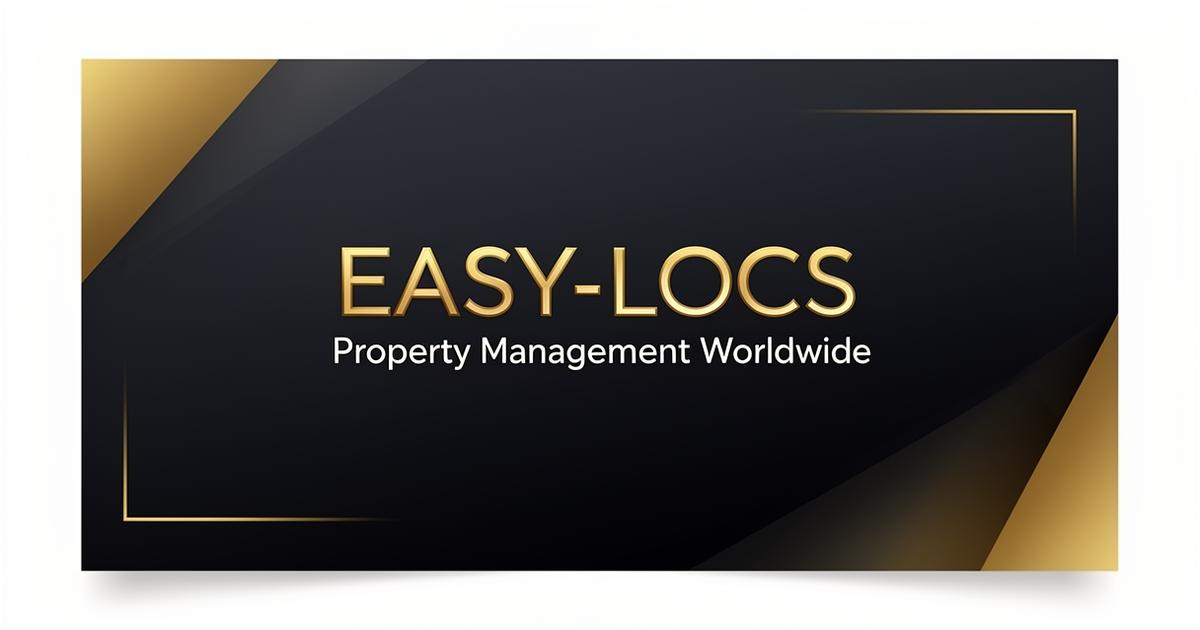
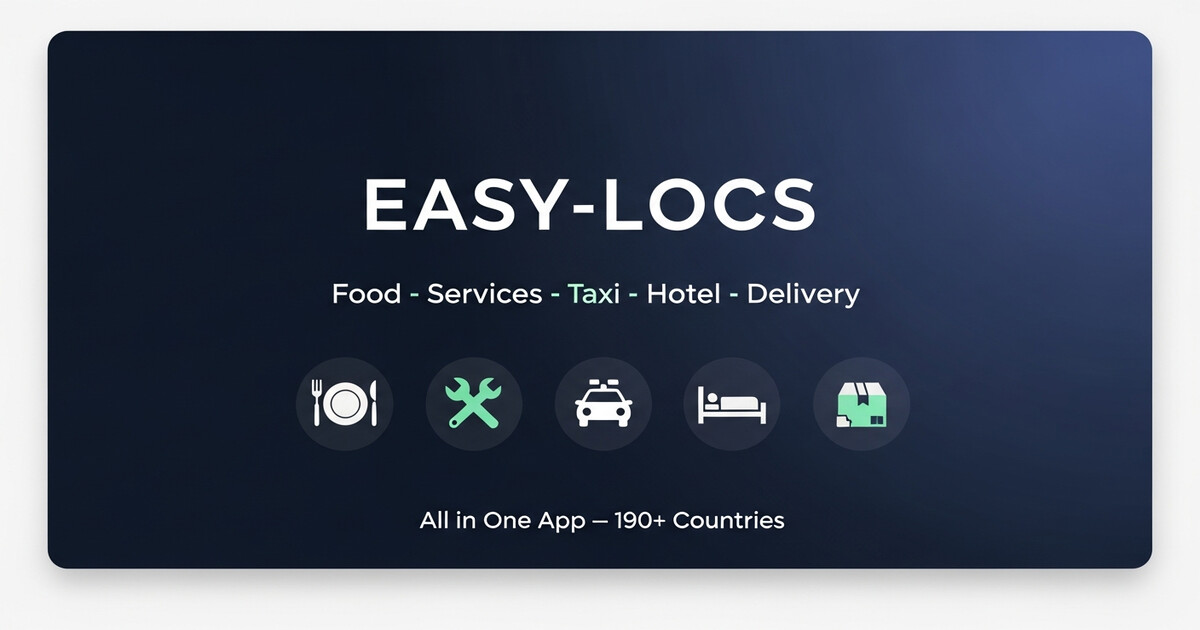
Fix branded URLs, OG image, and SEO consistency for Easy-Locs (#135)
1. APP_BASE_URL: Hardcoded to https://www.easy-locs.com with no
   window.location.origin fallback (app-domain.ts).

2. Centralized all share/link-generating code to use APP_BASE_URL
   via static imports — 25+ files updated including all share engines,
   QR generators, payment link builders, and merchant services.

3. Replaced public/og-default.jpg with new 1200x630 super-app branded
   image (food, taxi, hotel, services theme).

4. Normalized default OG/SEO titles across all surfaces to exactly
   "Easy-Locs — Food, Services, Taxi, Hotel in One App":
   index.html, SEOHead.tsx, seo-meta.pipeline.ts.

5. Fixed social-preview edge function: og:url and canonical now point
   to branded app URLs (e.g. easy-locs.com/listing/slug) instead of
   Supabase function URLs.

6. Cleaned up BookingLinkShare: removed unused socialLink variable
   and stale comments about edge-function routing.

7. Preserved window.location.origin only where needed for OAuth
   redirects and Stripe payment callbacks.

Replit-Task-Id: a7a1967b-62bd-4e99-abe4-a5ea4ca70c99

diff --git a/easy-locs-ea1eb0ed/src/components/concierge/BookingLinkShare.tsx b/easy-locs-ea1eb0ed/src/components/concierge/BookingLinkShare.tsx
@@ -3,7 +3,7 @@ import { Button } from "@/components/ui/button";
 import { Input } from "@/components/ui/input";
 import { Copy, MessageCircle, Mail, Share2, Check, Send } from "lucide-react";
 import { toast } from "sonner";
-import { getCleanShareUrl, getSocialShareUrl } from "@/lib/social-share";
+import { getCleanShareUrl } from "@/lib/social-share";
 
 interface Props {
   serviceSlug: string;
@@ -14,18 +14,13 @@ interface Props {
 }
 
 /**
- * Share booking links with product photo in social previews.
- * - Copy button: stable clean SPA link (easy-locs.com/book/slug)
- * - Social buttons: route through social-preview edge function
- *   so crawlers (WhatsApp, Telegram, iMessage) see og:image with product photo.
+ * Share booking links via WhatsApp, Telegram, Email, SMS.
+ * All channels use the branded clean URL (easy-locs.com/book/slug).
  */
-const BookingLinkShare = ({ serviceSlug, serviceTitle, photoUrl, shareVersion }: Props) => {
+const BookingLinkShare = ({ serviceSlug, serviceTitle, photoUrl }: Props) => {
   const [copied, setCopied] = useState(false);
 
-  // Clean URL for display and copy
   const cleanLink = getCleanShareUrl("service", serviceSlug);
-  // Social URL with OG tags for crawlers
-  const socialLink = getSocialShareUrl("service", serviceSlug, shareVersion || undefined);
 
   const copy = async () => {
     await navigator.clipboard.writeText(cleanLink);
@@ -37,10 +32,9 @@ const BookingLinkShare = ({ serviceSlug, serviceTitle, photoUrl, shareVersion }:
   const openShare = (platform: "whatsapp" | "telegram" | "email" | "sms") => {
     const encodedTitle = encodeURIComponent(serviceTitle);
 
-    // WhatsApp & Telegram use social URL for OG preview; Email & SMS use clean URL
     const targets: Record<string, string> = {
-      whatsapp: `https://api.whatsapp.com/send?text=${encodedTitle}%20${encodeURIComponent(socialLink)}`,
-      telegram: `https://t.me/share/url?url=${encodeURIComponent(socialLink)}&text=${encodedTitle}`,
+      whatsapp: `https://api.whatsapp.com/send?text=${encodedTitle}%20${encodeURIComponent(cleanLink)}`,
+      telegram: `https://t.me/share/url?url=${encodeURIComponent(cleanLink)}&text=${encodedTitle}`,
       email: `mailto:?subject=${encodedTitle}&body=${encodedTitle}%20${encodeURIComponent(cleanLink)}`,
       sms: `sms:?body=${encodedTitle}%20${encodeURIComponent(cleanLink)}`,
     };

diff --git a/easy-locs-ea1eb0ed/src/components/communication-hub/HudChatPanel.tsx b/easy-locs-ea1eb0ed/src/components/communication-hub/HudChatPanel.tsx
@@ -9,6 +9,7 @@ import { Button } from "@/components/ui/button";
 import { Sheet, SheetContent } from "@/components/ui/sheet";
 import { useI18n } from "@/lib/i18n";
 import { toast } from "sonner";
+import { APP_BASE_URL } from "@/lib/app-domain";
 
 // ── Auth / Identity ──
 import { useAuth, useResolveAuthUserId } from "@/families/auth";
@@ -498,12 +499,12 @@ const HudChatPanelInner = memo(function HudChatPanelInner({ thread, onBack, onTo
         onDisappearTimerChange={(timer) => security.setDisappearTTL(timer)}
         conversationId={currentConversationId || null}
         onChatCleared={() => { overlayBridge.setShowContactProfile(false); }}
-        onShareQR={() => {
+        onShareQR={async () => {
           overlayBridge.setShowContactProfile(false);
           const qrCanvas = document.createElement("canvas");
           const contactName = thread?.name || "Contact";
           const contactId = thread?.peerUserId || thread?.tenantId || thread?.entityId || "";
-          const shareUrl = `${window.location.origin}/#/add-contact?userId=${contactId}&name=${encodeURIComponent(contactName)}`;
+          const shareUrl = `${APP_BASE_URL}/#/add-contact?userId=${contactId}&name=${encodeURIComponent(contactName)}`;
           import("qrcode").then(QRCodeLib => {
             QRCodeLib.default.toDataURL(shareUrl, { width: 400, margin: 2, errorCorrectionLevel: "H" }).then(dataUrl => {
               navigator.clipboard.writeText(shareUrl).then(() => {

diff --git a/easy-locs-ea1eb0ed/src/pages/travel/FlightConfirmationPage.tsx b/easy-locs-ea1eb0ed/src/pages/travel/FlightConfirmationPage.tsx
@@ -8,6 +8,7 @@ import { useNavigate } from "react-router-dom";
 import { useCallback } from "react";
 import { toast } from "sonner";
 import { useUiEngine } from "@/hooks/useUiEngine";
+import { APP_BASE_URL } from "@/lib/app-domain";
 
 const NAVY = "hsl(226 24% 14%)";
 const GOLD = "hsl(var(--accent))";
@@ -191,11 +192,16 @@ export default function FlightConfirmationPage() {
             variant="outline"
             className="h-11 rounded-xl text-xs font-bold"
             onClick={() => {
+              const shareData = {
+                title: `Flight ${booking.pnr}`,
+                text: `${firstSeg.origin} → ${lastSeg.destination} on ${formatDate(firstSeg.departureTime)}`,
+                url: `${APP_BASE_URL}/travel/bookings`,
+              };
               if (navigator.share) {
-                navigator.share({
-                  title: `Flight ${booking.pnr}`,
-                  text: `${firstSeg.origin} → ${lastSeg.destination} on ${formatDate(firstSeg.departureTime)}`,
-                }).catch(() => {});
+                navigator.share(shareData).catch(() => {});
+              } else {
+                navigator.clipboard.writeText(`${shareData.title} — ${shareData.text} ${shareData.url}`).catch(() => {});
+                toast.success("Flight details copied!");
               }
             }}
           >

diff --git a/easy-locs-ea1eb0ed/src/components/storefront/AffiliateProgram.tsx b/easy-locs-ea1eb0ed/src/components/storefront/AffiliateProgram.tsx
@@ -13,6 +13,7 @@ import { Badge } from "@/components/ui/badge";
 import { Input } from "@/components/ui/input";
 import { Users, Link2, Copy, Check, DollarSign, MousePointer, ShoppingBag, Loader2, TrendingUp } from "lucide-react";
 import { toast } from "sonner";
+import { APP_BASE_URL } from "@/lib/app-domain";
 
 interface Props {
   shopId: string;
@@ -70,7 +71,7 @@ export default function AffiliateProgram({ shopId, shopSlug, mode }: Props) {
   };
 
   const copyLink = (code: string) => {
-    const url = `${window.location.origin}/s/${shopSlug || "shop"}?ref=${code}`;
+    const url = `${APP_BASE_URL}/s/${shopSlug || "shop"}?ref=${code}`;
     navigator.clipboard.writeText(url);
     setCopied(true);
     setTimeout(() => setCopied(false), 2000);
@@ -155,7 +156,7 @@ export default function AffiliateProgram({ shopId, shopSlug, mode }: Props) {
               <div className="flex gap-2">
                 <Input
                   readOnly
-                  value={`${window.location.origin}/s/${shopSlug}?ref=${myAffiliate.referral_code}`}
+                  value={`${APP_BASE_URL}/s/${shopSlug}?ref=${myAffiliate.referral_code}`}
                   className="h-8 text-[10px] font-mono bg-background"
                 />
                 <Button size="icon" className="h-8 w-8 shrink-0" onClick={() => copyLink(myAffiliate.referral_code)}>

diff --git a/easy-locs-ea1eb0ed/src/lib/merchant/outreach-service.ts b/easy-locs-ea1eb0ed/src/lib/merchant/outreach-service.ts
@@ -3,6 +3,7 @@
  * Creates campaigns, generates activation links, and tracks funnel metrics.
  */
 import { db } from "@/services/db";
+import { APP_BASE_URL } from "@/lib/app-domain";
 
 export interface OutreachRecord {
   id: string;
@@ -47,9 +48,7 @@ export async function createOutreachCampaign(params: {
 
   if (error) throw error;
 
-  // Generate activation link
-  const baseUrl = window.location.origin;
-  const link = `${baseUrl}/#/merchant/claim?token=${data.activation_token}`;
+  const link = `${APP_BASE_URL}/#/merchant/claim?token=${data.activation_token}`;
 
   await db
     .from("merchant_outreach_campaigns")
@@ -64,7 +63,6 @@ export async function bulkCreateOutreach(params: {
   merchantProfileIds: string[];
   channel: "whatsapp" | "sms" | "email";
 }) {
-  const baseUrl = window.location.origin;
   const rows = params.merchantProfileIds.map((id) => ({
     merchant_profile_id: id,
     channel: params.channel,
@@ -80,7 +78,7 @@ export async function bulkCreateOutreach(params: {
 
   // Update activation links
   for (const row of data ?? []) {
-    const link = `${baseUrl}/#/merchant/claim?token=${row.activation_token}`;
+    const link = `${APP_BASE_URL}/#/merchant/claim?token=${row.activation_token}`;
     await db
       .from("merchant_outreach_campaigns")
       .update({ activation_link: link })

diff --git a/easy-locs-ea1eb0ed/src/components/communication-hub/chat/ChatHeader.tsx b/easy-locs-ea1eb0ed/src/components/communication-hub/chat/ChatHeader.tsx
@@ -8,6 +8,7 @@ import { resolveCanonicalDisplayIdentity } from "@/lib/orbit/canonical-helpers";
 import { IdentityAvatar } from "@/components/orbit/IdentityAvatar";
 import { usePresenceStore } from "@/families/presence";
 import { toast } from "sonner";
+import { APP_BASE_URL } from "@/lib/app-domain";
 import type { ConversationThread } from "../types";
 import { EphemeralPolicy, type DisappearTimer } from "@/families/ephemeral/ephemeral-policy";
 import { Timer, TimerOff } from "lucide-react";
@@ -256,9 +257,9 @@ export default function ChatHeader({
                     <span style={{ color: "hsl(var(--foreground))" }}>{t("orbit.video_call")}</span>
                   </DropdownMenuItem>
                   <DropdownMenuSeparator style={{ background: "hsl(var(--border) / 0.1)" }} />
-                  <DropdownMenuItem onClick={() => {
+                  <DropdownMenuItem onClick={async () => {
                     haptic("light");
-                    const link = `${window.location.origin}/orbit/call/${thread.id}`;
+                    const link = `${APP_BASE_URL}/orbit/call/${thread.id}`;
                     navigator.clipboard.writeText(link).then(() => {
                       toast.success(t("orbit.call_link_copied"));
                     }).catch(() => {

diff --git a/easy-locs-ea1eb0ed/src/lib/app-domain.ts b/easy-locs-ea1eb0ed/src/lib/app-domain.ts
@@ -1,32 +1,8 @@
 /**
- * AUTH DEPENDENCY: app-domain.ts
- * Contact points: SocialLoginButtons (OAuth redirect), Login.tsx (OTP redirect),
- *   AuthCallbackPage, AuthDiagnosticPage
- * buildAppUrl is used to construct OAuth redirect URLs — must work in
- * Replit dev (proxied), Lovable preview, and production deployments.
+ * Always use the canonical production domain for shared links.
+ * Never leak dev/preview URLs (Replit, Lovable, etc.) into shared content.
  */
-
-function resolveBaseUrl(): string {
-  if (typeof window === "undefined") return "https://easy-locs.lovable.app";
-
-  const origin = window.location.origin;
-
-  if (origin.includes("replit.dev") || origin.includes("repl.co")) {
-    return origin;
-  }
-
-  if (origin.includes("lovable.app") || origin.includes("lovable.dev")) {
-    return origin;
-  }
-
-  if (origin.includes("localhost") || origin.includes("127.0.0.1")) {
-    return origin;
-  }
-
-  return origin;
-}
-
-export const APP_BASE_URL = resolveBaseUrl();
+export const APP_BASE_URL = "https://www.easy-locs.com";
 
 export const buildAppUrl = (path: string = "/"): string => {
   if (!path) return APP_BASE_URL;

diff --git a/easy-locs-ea1eb0ed/src/components/communication-hub/CommContactsSection.tsx b/easy-locs-ea1eb0ed/src/components/communication-hub/CommContactsSection.tsx
@@ -34,6 +34,7 @@ import QRContactCard from "./QRContactCard";
 import { motion, AnimatePresence } from "framer-motion";
 import SmartEntityActions from "@/components/smart/SmartEntityActions";
 import { buildEntityFromContact } from "@/lib/smart/smart-bridge";
+import { APP_BASE_URL } from "@/lib/app-domain";
 
 interface Contact {
   id: string;
@@ -526,7 +527,7 @@ export default function CommContactsSection() {
         <HeaderAction icon={ScanLine} label={t("orbit.contacts.scan_qr")} onClick={() => setShowScan(true)} />
         <HeaderAction icon={Share2} label={t("wallet.shareNearby")} onClick={async () => {
           if (!user?.id) return;
-          const profileUrl = `${window.location.origin}/orbit/add?userId=${user.id}`;
+          const profileUrl = `${APP_BASE_URL}/orbit/add?userId=${user.id}`;
           const displayName = user.user_metadata?.display_name || user.user_metadata?.full_name || user.email?.split("@")[0] || t("orbit.contact");
           if (navigator.share) {
             try {

diff --git a/easy-locs-ea1eb0ed/src/domains/seo/pipelines/seo-meta.pipeline.ts b/easy-locs-ea1eb0ed/src/domains/seo/pipelines/seo-meta.pipeline.ts
@@ -22,8 +22,8 @@ const HREFLANG_LOCALES: Array<{ lang: string }> = [
 
 const ROUTE_META: Record<string, { title: string; description: string; ogImage?: string }> = {
   "/": {
-    title: "Easy-Locs — Property Management Software for Landlords Worldwide",
-    description: "Manage rental properties worldwide. Leases, receipts, tenant portal, accounting — all-in-one platform.",
+    title: "Easy-Locs — Food, Services, Taxi, Hotel in One App",
+    description: "Easy-Locs: order food, book taxis, find hotels, get deliveries and local services — all in one super app. Available in 190+ countries, 120+ currencies, 31 languages.",
     ogImage: `${BASE}/og-default.jpg`,
   },
   "/marketplace": {
@@ -95,9 +95,7 @@ export function buildSeoMeta(
     }
   }
 
-  const canonicalUrl = typeof window !== "undefined"
-    ? `${window.location.origin}${route}`
-    : `${BASE}${route}`;
+  const canonicalUrl = `${BASE}${route}`;
 
   const hreflangAlternates = buildHreflangAlternates(canonicalUrl);
 

diff --git a/easy-locs-ea1eb0ed/src/pages/ActivitiesMarketplace.tsx b/easy-locs-ea1eb0ed/src/pages/ActivitiesMarketplace.tsx
@@ -14,6 +14,7 @@ import { Tabs, TabsContent, TabsList, TabsTrigger } from "@/components/ui/tabs";
 import { Select, SelectContent, SelectItem, SelectTrigger, SelectValue } from "@/components/ui/select";
 import { Dialog, DialogContent, DialogHeader, DialogTitle } from "@/components/ui/dialog";
 import { toast } from "sonner";
+import { APP_BASE_URL } from "@/lib/app-domain";
 import { Plus, Store, ShoppingCart, Star, Users, Search, MapPin, Share2, ExternalLink, Compass, Sparkles, ArrowRightLeft, MessageSquare } from "lucide-react";
 import ProviderProfileForm from "@/components/marketplace/ProviderProfileForm";
 import ServiceForm, { type ServiceFormData } from "@/components/marketplace/ServiceForm";
@@ -114,7 +115,7 @@ const ActivitiesMarketplace = () => {
   };
 
   const storefrontUrl = myProvider?.slug
-    ? `${window.location.origin}/provider/${myProvider.slug}`
+    ? `${APP_BASE_URL}/provider/${myProvider.slug}`
     : null;
 
   const shareStorefront = () => {

diff --git a/easy-locs-ea1eb0ed/src/lib/merchant-qr/merchant-qr-engine.ts b/easy-locs-ea1eb0ed/src/lib/merchant-qr/merchant-qr-engine.ts
@@ -3,6 +3,7 @@
  * Integrates with the universal qr-engine for encoding/decoding.
  */
 import { encodeQr, qr, type PayShopQr } from "@/lib/qr-engine";
+import { APP_BASE_URL } from "@/lib/app-domain";
 import type { MerchantQrPayload, MerchantQrMode, MerchantPaymentContext, SplitConfig } from "./types";
 
 /* ═══════════════════════════════════════════════════════════════
@@ -277,6 +278,6 @@ export function recordPaymentAttempt(key: string): void {
 
 /** Build a shareable merchant payment URL */
 export function toMerchantPayUrl(payload: MerchantQrPayload, origin?: string): string {
-  const base = origin || (typeof window !== "undefined" ? window.location.origin : "https://easy-locs.lovable.app");
+  const base = origin || APP_BASE_URL;
   return `${base}/pay/merchant?data=${encodeURIComponent(encodeMerchantQr(payload))}`;
 }

diff --git a/easy-locs-ea1eb0ed/src/lib/qr-engine.ts b/easy-locs-ea1eb0ed/src/lib/qr-engine.ts
@@ -7,6 +7,7 @@
  * Payload is serialised as a versioned JSON string, optionally wrapped in a
  * resolve-URL for external sharing (scannable by any camera app).
  */
+import { APP_BASE_URL } from "@/lib/app-domain";
 
 /* ═══════════════════════════════════════════════════════════════
    1. PAYLOAD TYPE DEFINITIONS
@@ -141,7 +142,7 @@ export function decodeQr(raw: string): UniversalQrPayload | null {
 
 /** Build a shareable resolve URL (scannable by any camera app) */
 export function toResolveUrl(payload: UniversalQrPayload, origin?: string): string {
-  const base = origin || (typeof window !== "undefined" ? window.location.origin : "https://easy-locs.lovable.app");
+  const base = origin || APP_BASE_URL;
   return `${base}/qr/resolve?data=${encodeURIComponent(encodeQr(payload))}`;
 }
 
